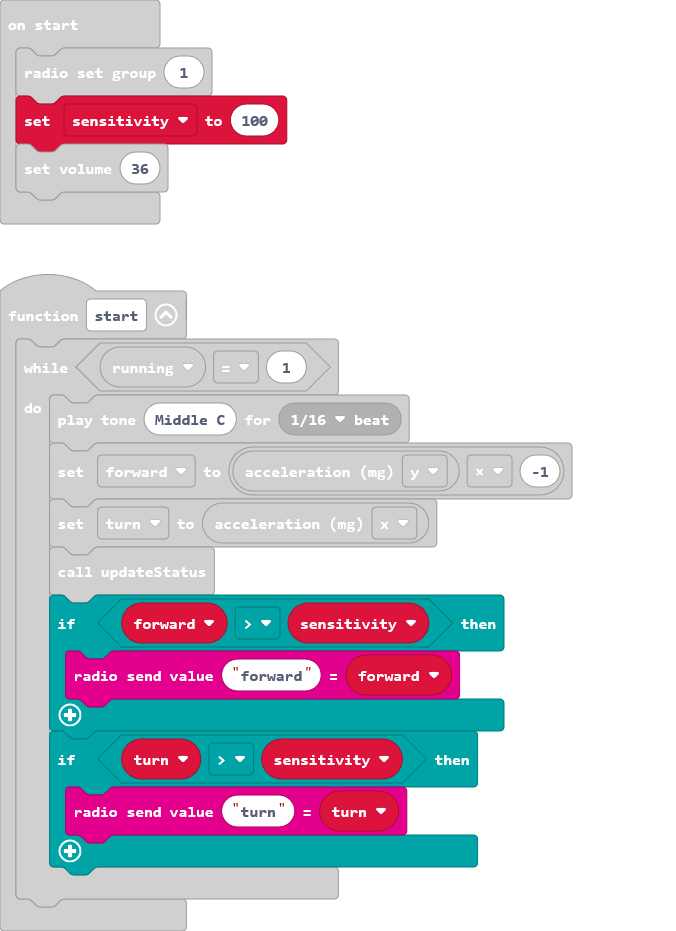
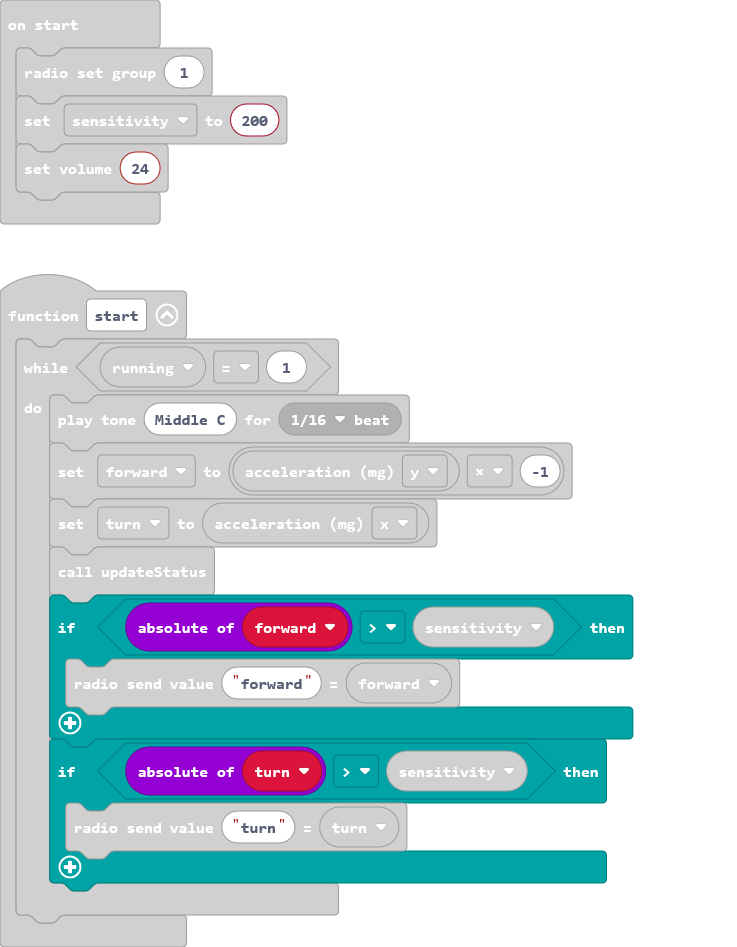
Update main.blocks, main.ts

diff --git a/main.ts b/main.ts
@@ -22,10 +22,10 @@ function start () {
         forward = input.acceleration(Dimension.Y) * -1
         turn = input.acceleration(Dimension.X)
         updateStatus()
-        if (forward > sensitivity) {
+        if (Math.abs(forward) > sensitivity) {
             radio.sendValue("forward", forward)
         }
-        if (turn > sensitivity) {
+        if (Math.abs(turn) > sensitivity) {
             radio.sendValue("turn", turn)
         }
     }
@@ -63,5 +63,5 @@ let forward = 0
 let running = 0
 let sensitivity = 0
 radio.setGroup(1)
-sensitivity = 100
-music.setVolume(36)
+sensitivity = 200
+music.setVolume(24)
